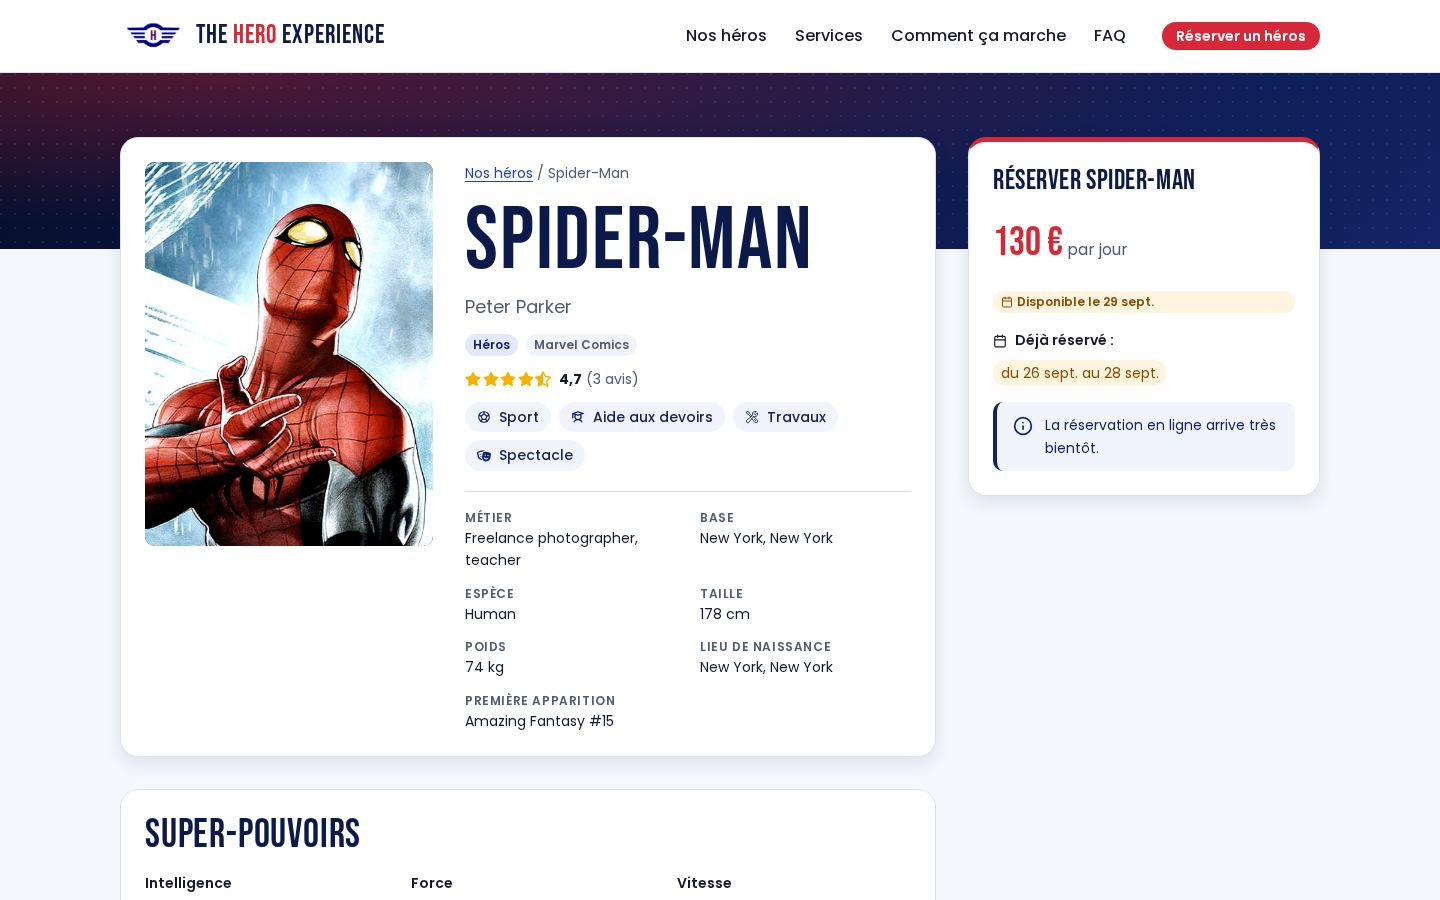
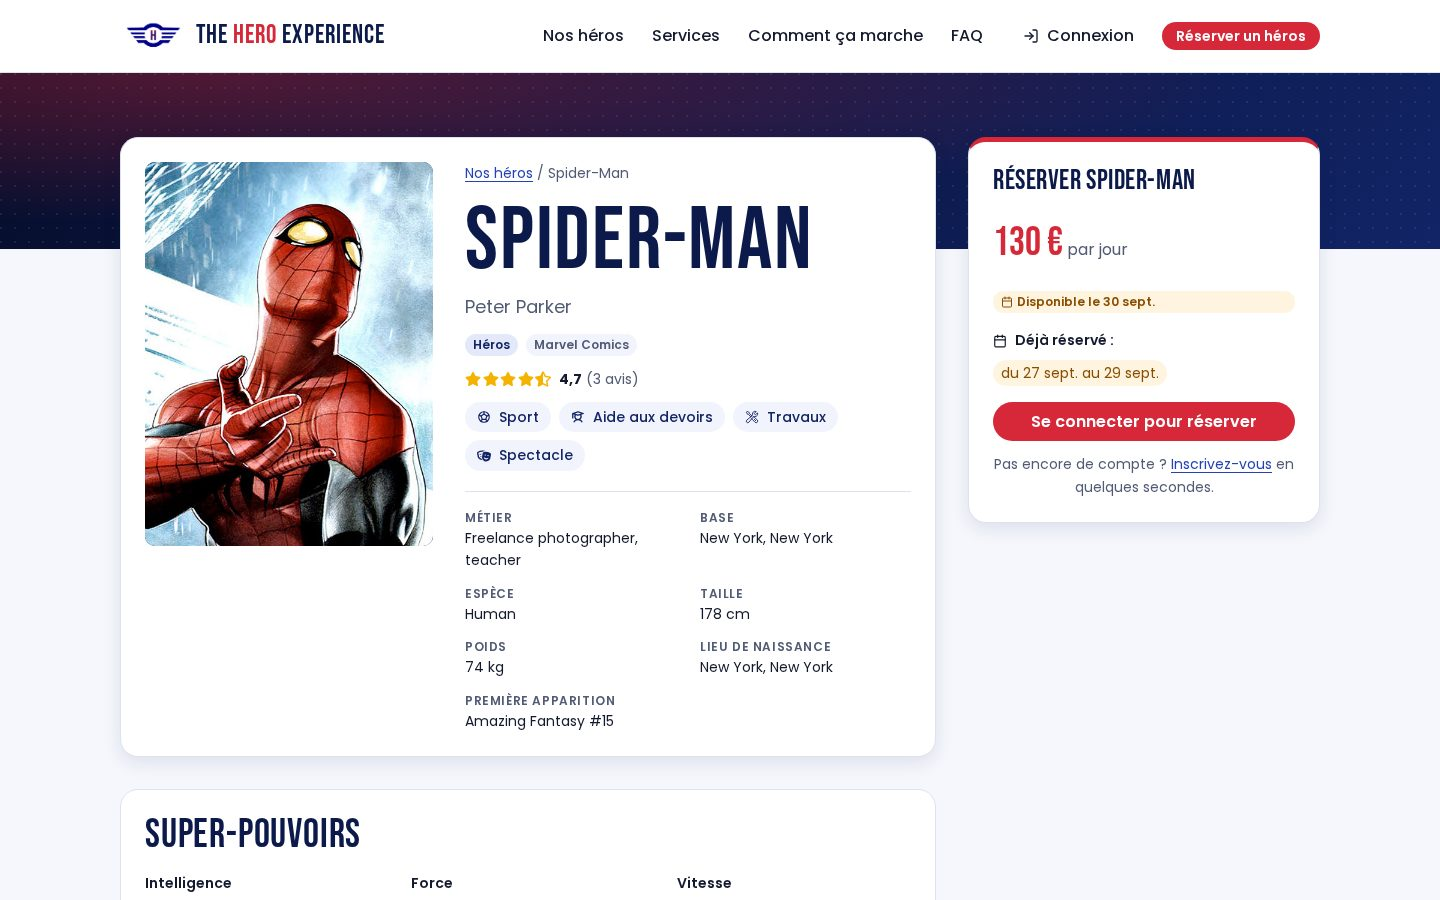
docs: show the booking, account and review pages in the README
- New screenshots of the live site, taken with the demo account: the
  booking form with its live price, the customer account and a review
  being written (forms filled, never submitted).
- The four former screenshots are taken again: they predated sign-in
  and still showed "La réservation en ligne arrive très bientôt".

Changed region(s): [[0.6875, 0.4356, 0.9062, 0.56], [0.375, 0.0311, 0.7812, 0.0622], [0.7812, 0.3111, 0.8125, 0.3422]]

diff --git a/README.md b/README.md
@@ -17,6 +17,10 @@ Le projet est **fictif** : aucune prestation ni aucun paiement réels.
 | -------------------------------------------- | -------------------------------------------------------- | -------------------------------------------------------- |
 | ![Catalogue](docs/screenshots/catalogue.jpg) | ![Fiche de Spider-Man](docs/screenshots/fiche-heros.jpg) | ![Fiche de Hulk sur mobile](docs/screenshots/mobile.jpg) |
 
+| Réservation                                                                            | Espace client                                                          | Avis vérifiés                                              |
+| -------------------------------------------------------------------------------------- | ---------------------------------------------------------------------- | ---------------------------------------------------------- |
+| ![Réservation de Spider-Man, prix calculé en direct](docs/screenshots/reservation.jpg) | ![Espace client du compte de démo](docs/screenshots/espace-client.jpg) | ![Rédaction d'un avis sur Hulk](docs/screenshots/avis.jpg) |
+
 ## Fonctionnalités
 
 - **Catalogue** : recherche (nom ou identité secrète), filtres par service, prix et date de
